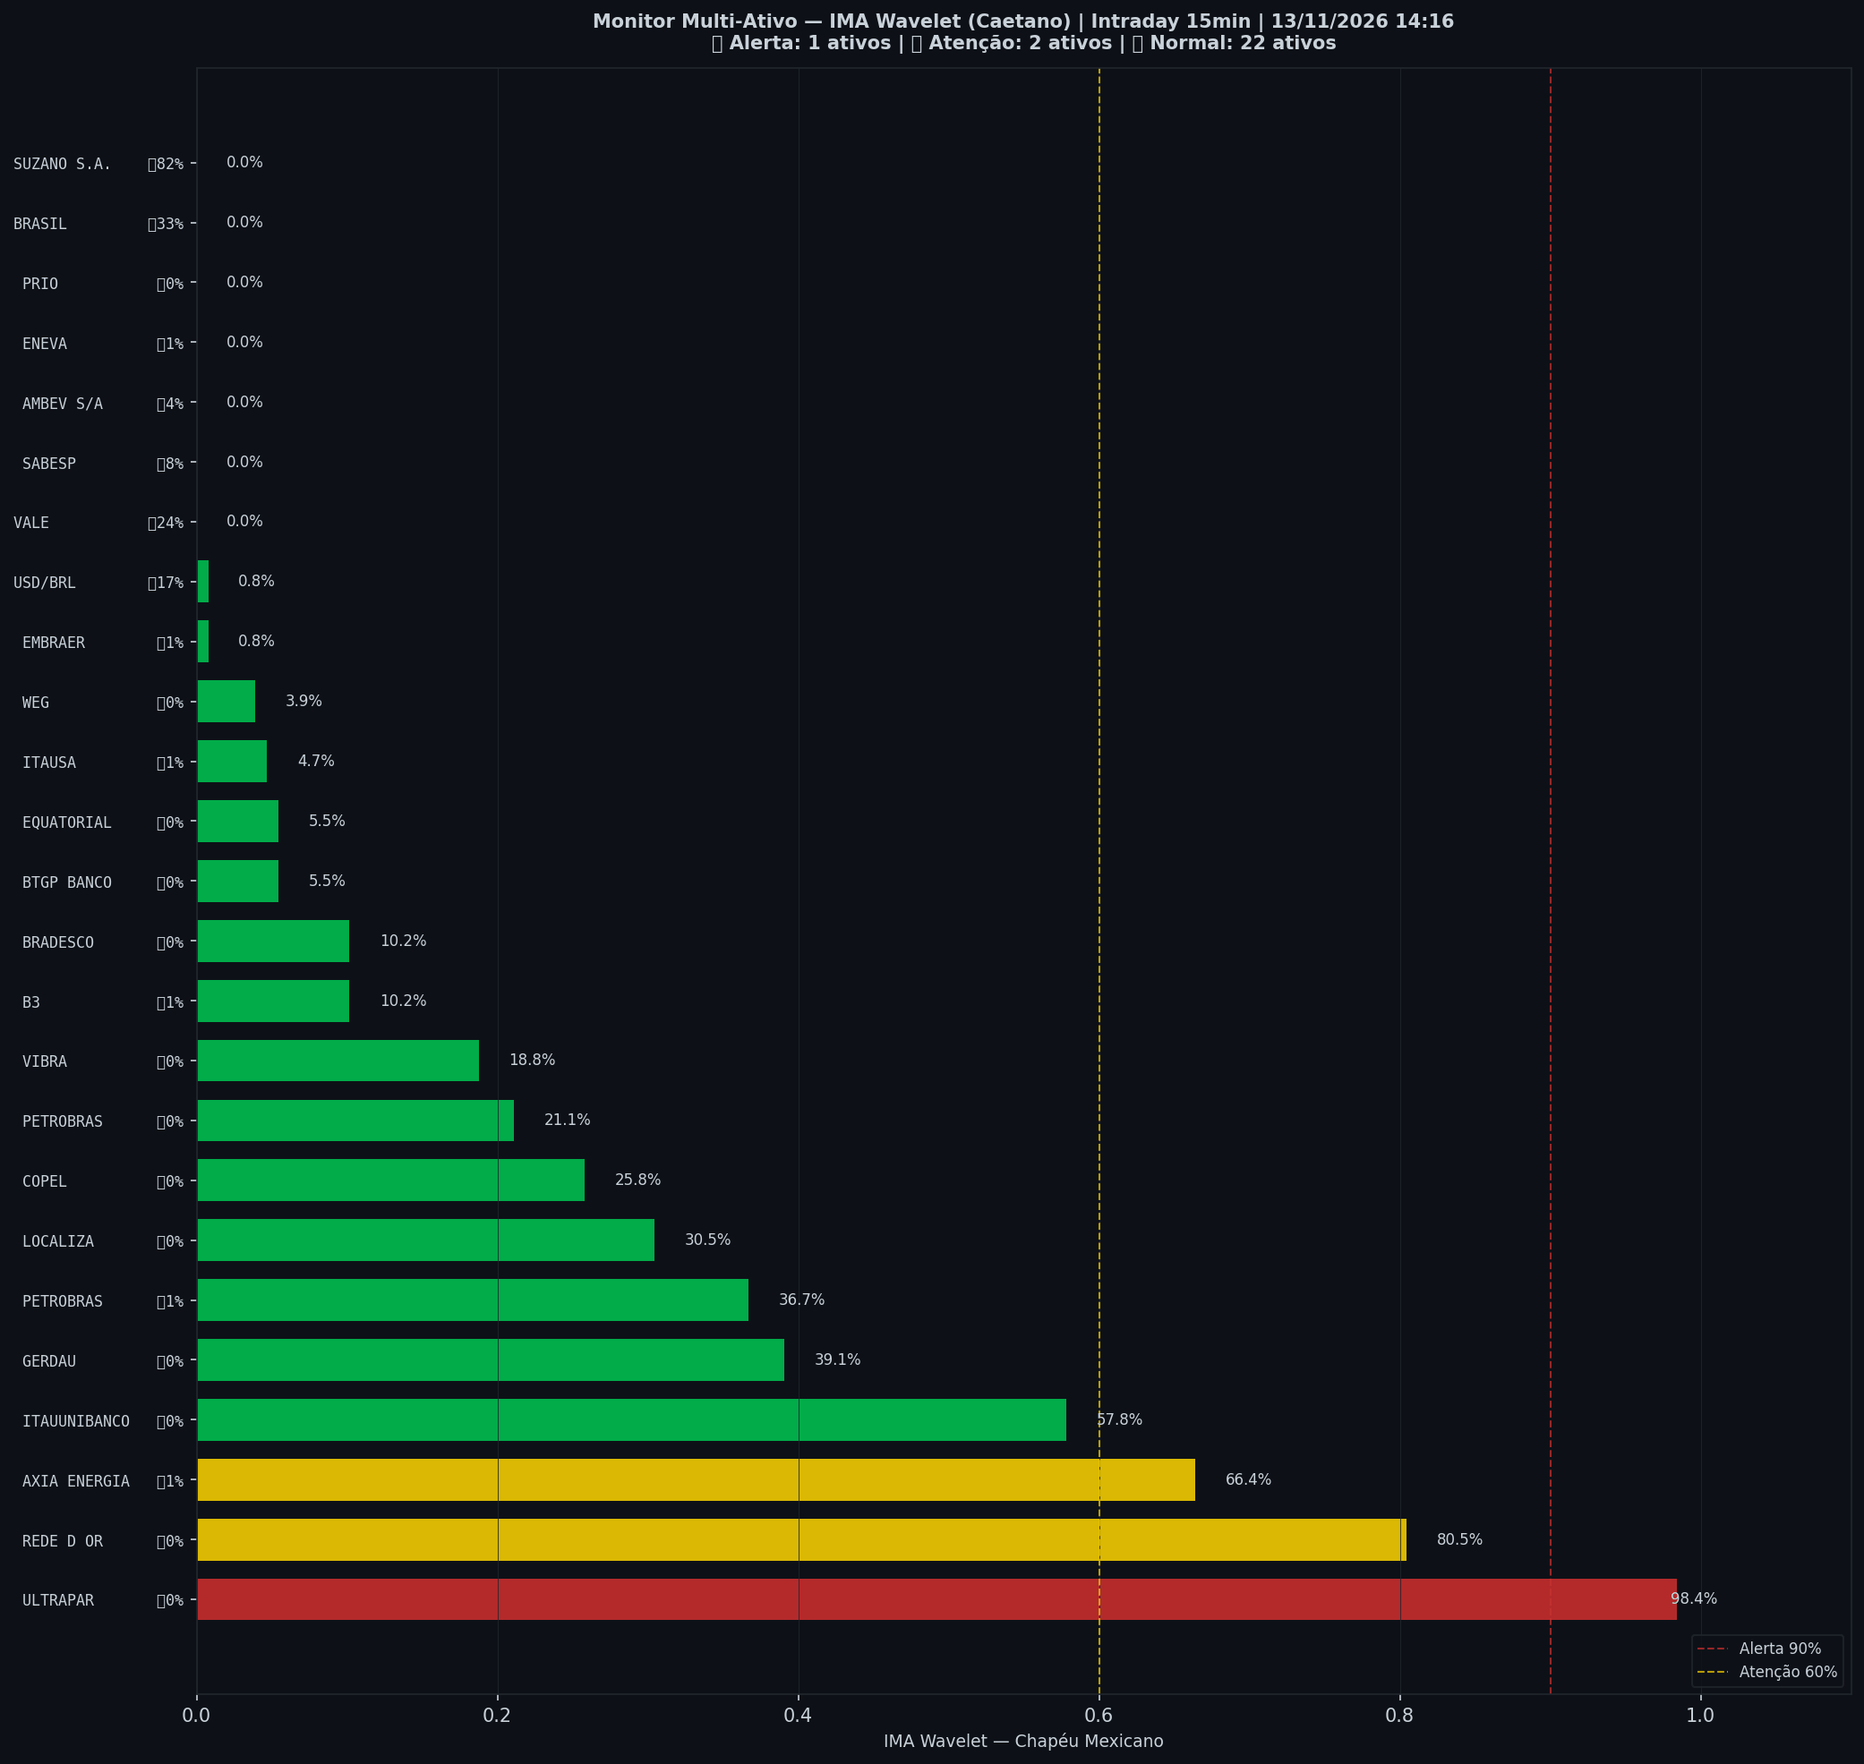
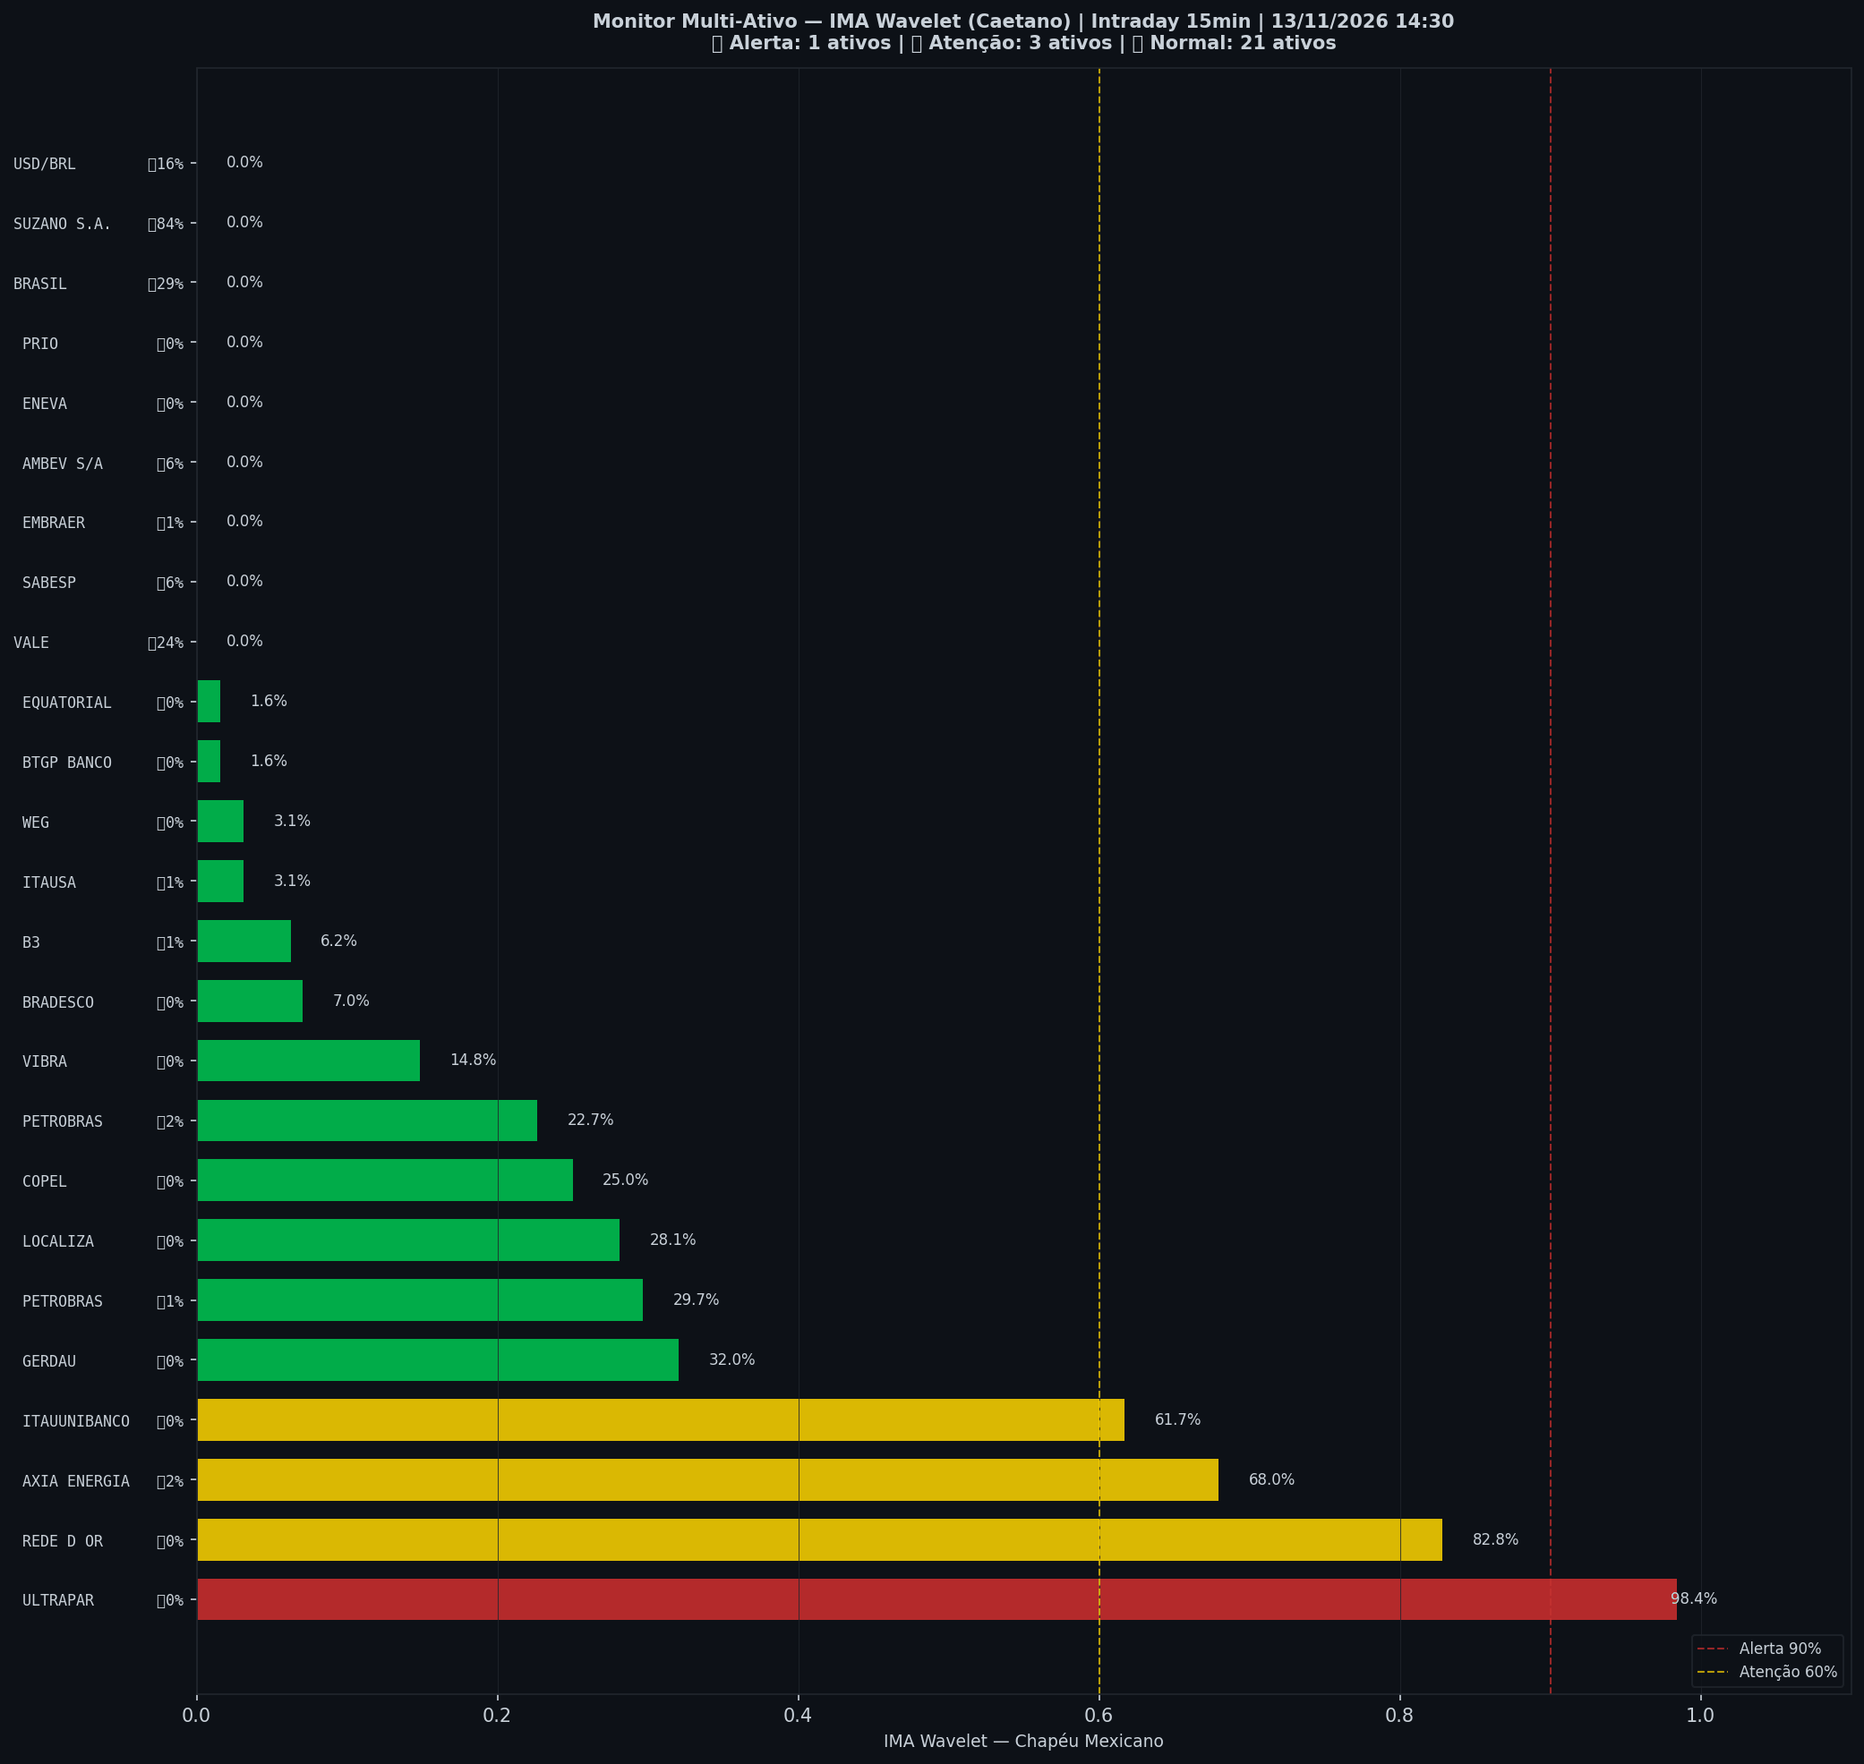
🤖 Auto: Sinal 13/11/2026 14:31

Changed region(s): [[0.0937, 0.588, 0.6868, 0.8666], [0.0937, 0.3095, 0.1873, 0.588], [0.7493, 0.8356, 0.7805, 0.8975]]

diff --git a/content/intraday/2026-11-13.md b/content/intraday/2026-11-13.md
@@ -1,11 +1,11 @@
 ---
-title: "🟢 Intraday 13/11/2026 14:00 BRT — VERDE"
+title: "🟢 Intraday 13/11/2026 14:15 BRT — VERDE"
 date: 2026-11-13
 tags: [intraday]
 ---
 
-> [!success] Onde o mercado está agora (13/11 14:00, candles de 15 min): **🟢 Calmo**
-> `Pânico ◀──────────●──────────▶ Euforia`
+> [!success] Onde o mercado está agora (13/11 14:15, candles de 15 min): **🟢 Calmo**
+> `Pânico ◀─────────●───────────▶ Euforia`
 >
 > O Ibovespa está dentro da sua faixa normal, sem excesso para cima nem para baixo.
 > No gráfico diário: 🌱 Fundo se desfazendo.
@@ -20,7 +20,7 @@ tags: [intraday]
 > | 📍 **Sinais** | hoje: nenhum sinal | [abrir](sinais-topo-fundo/) |
 > | 🧪 **Placar ao vivo** | 1 operação(ões), 0 com lucro, soma -0,8% | [abrir](operacoes/) |
 
-> [!success] IMA Intraday · 15 min (13/11 14:00): 🟢 **VERDE** — Risco 1% · ▼ -1 p.p. vs leitura anterior
+> [!success] IMA Intraday · 15 min (13/11 14:15): 🟢 **VERDE** — Risco 0% · ▼ -1 p.p. vs leitura anterior
 > `░░░░░░░░░░░░░░░░░░░░`
 > Preço na faixa normal em torno da tendência.
 
@@ -32,13 +32,13 @@ tags: [intraday]
 >
 > *Leitura educacional baseada em 26 anos de dados, não recomendação. [Como usar](../metodologia/crise#3-como-usar-na-prática).*
 
-| Indicador — IMA Intraday · 15 min (13/11 14:00) | Valor |
+| Indicador — IMA Intraday · 15 min (13/11 14:15) | Valor |
 |---|---|
-| 🔴 ζ Topo — preço esticado acima da tendência | **1%** |
-| 🔵 ζ Fundo — preço esticado abaixo da tendência | 5% |
+| 🔴 ζ Topo — preço esticado acima da tendência | **0%** |
+| 🔵 ζ Fundo — preço esticado abaixo da tendência | 7% |
 | 🫧 LPPL bolha — alta super-exponencial (risco de crash) | 0% |
 | 🫧 LPPL antibolha — queda super-exponencial (risco de repique) | 0% |
-| 📊 Ibovespa | 172.414 pts |
+| 📊 Ibovespa | 172.235 pts |
 
 ![Gráfico do sinal](../graficos/sinal_intraday.png)
 
@@ -46,6 +46,7 @@ tags: [intraday]
 
 | Data | Zona | Evento | Risco | ζ Topo | ζ Fundo | LPPL |
 |---|---|---|---|---|---|---|
+| 2026-11-13 14:15 | 🟢 VERDE |  | **0%** | 0% | 7% | 0% |
 | 2026-11-13 14:00 | 🟢 VERDE |  | **1%** | 1% | 5% | 0% |
 | 2026-11-13 13:45 | 🟢 VERDE |  | **2%** | 2% | 3% | 0% |
 | 2026-11-13 13:30 | 🟢 VERDE |  | **1%** | 1% | 1% | 0% |
@@ -75,50 +76,49 @@ tags: [intraday]
 | 2026-11-12 15:45 | 🟢 VERDE |  | **0%** | 0% | 🔵 **89%** | 0% |
 | 2026-11-12 15:30 | 🟢 VERDE |  | **0%** | 0% | 🔵 **88%** | 0% |
 | 2026-11-12 15:15 | 🟢 VERDE |  | **0%** | 0% | 🔵 **88%** | 0% |
-| 2026-11-12 15:00 | 🟢 VERDE |  | **0%** | 0% | 🔵 **88%** | 0% |
 
 <small>Destaques: 🟡 ≥ 60% · 🔴 ≥ 90% (Risco e ζ Topo) · 🔵 ≥ 60% · 🔪 ≥ 90% (ζ Fundo) · 🫧 ≥ 30% · 🫧🔴 ≥ 50% (LPPL)</small>
 
 ## Monitor Multi-Ativo
 
-**12% dos ativos em tensão** (1🔴 2🟡) · **1 com ζ Fundo alto** — quanto mais ativos disparam juntos, mais confiável o sinal.
+**16% dos ativos em tensão** (1🔴 3🟡) · **1 com ζ Fundo alto** — quanto mais ativos disparam juntos, mais confiável o sinal.
 
 > [!danger] Em destaque no multi-ativo
-> 🔴 **ULTRAPAR** ζ Topo 98% · 🔵 **SUZANO S.A.** ζ Fundo 82% · 🟡 **REDE D OR** ζ Topo 80% · 🟡 **AXIA ENERGIA** ζ Topo 66%
+> 🔴 **ULTRAPAR** ζ Topo 98% · 🔵 **SUZANO S.A.** ζ Fundo 84% · 🟡 **REDE D OR** ζ Topo 83% · 🟡 **AXIA ENERGIA** ζ Topo 68% · 🟡 **ITAUUNIBANCO** ζ Topo 62%
 
 | Zona | Ativo | Setor | ζ Topo | ζ Fundo |
 |---|---|---|---|---|
 | 🔴 | **ULTRAPAR** | Outros | 🔴 **98.4%** | 0.0% |
-| 🟢 | **SUZANO S.A.** | Papel/Celulose | 0.0% | 🔵 **82.0%** |
-| 🟡 | **REDE D OR** | Saúde | 🟡 **80.5%** | 0.0% |
-| 🟡 | **AXIA ENERGIA** | Energia | 🟡 **66.4%** | 0.8% |
-| 🟢 | **ITAUUNIBANCO** | Financeiro | 57.8% | 0.0% |
-| 🟢 | **GERDAU** | Siderurgia | 39.1% | 0.0% |
-| 🟢 | **PETROBRAS** | Petróleo | 36.7% | 0.8% |
-| 🟢 | **BRASIL** | Financeiro | 0.0% | 32.8% |
-| 🟢 | **LOCALIZA** | Aluguel | 30.5% | 0.0% |
-| 🟢 | **COPEL** | Energia | 25.8% | 0.0% |
+| 🟢 | **SUZANO S.A.** | Papel/Celulose | 0.0% | 🔵 **84.4%** |
+| 🟡 | **REDE D OR** | Saúde | 🟡 **82.8%** | 0.0% |
+| 🟡 | **AXIA ENERGIA** | Energia | 🟡 **68.0%** | 1.6% |
+| 🟡 | **ITAUUNIBANCO** | Financeiro | 🟡 **61.7%** | 0.0% |
+| 🟢 | **GERDAU** | Siderurgia | 32.0% | 0.0% |
+| 🟢 | **PETROBRAS** | Petróleo | 29.7% | 0.8% |
+| 🟢 | **BRASIL** | Financeiro | 0.0% | 28.9% |
+| 🟢 | **LOCALIZA** | Aluguel | 28.1% | 0.0% |
+| 🟢 | **COPEL** | Energia | 25.0% | 0.0% |
 | 🟢 | **VALE** | Mineração | 0.0% | 24.2% |
-| 🟢 | **PETROBRAS** | Petróleo | 21.1% | 0.0% |
-| 🟢 | **VIBRA** | Energia | 18.8% | 0.0% |
-| 🟢 | **USD/BRL** | Câmbio | 0.8% | 17.2% |
-| 🟢 | **B3** | Financeiro | 10.2% | 0.8% |
-| 🟢 | **BRADESCO** | Financeiro | 10.2% | 0.0% |
-| 🟢 | **SABESP** | Saneamento | 0.0% | 7.8% |
-| 🟢 | **BTGP BANCO** | Financeiro | 5.5% | 0.0% |
-| 🟢 | **EQUATORIAL** | Energia | 5.5% | 0.0% |
-| 🟢 | **ITAUSA** | Financeiro | 4.7% | 0.8% |
-| 🟢 | **WEG** | Industrial | 3.9% | 0.0% |
-| 🟢 | **AMBEV S/A** | Consumo | 0.0% | 3.9% |
-| 🟢 | **EMBRAER** | Outros | 0.8% | 0.8% |
-| 🟢 | **ENEVA** | Energia | 0.0% | 0.8% |
+| 🟢 | **PETROBRAS** | Petróleo | 22.7% | 1.6% |
+| 🟢 | **USD/BRL** | Câmbio | 0.0% | 15.6% |
+| 🟢 | **VIBRA** | Energia | 14.8% | 0.0% |
+| 🟢 | **BRADESCO** | Financeiro | 7.0% | 0.0% |
+| 🟢 | **SABESP** | Saneamento | 0.0% | 6.2% |
+| 🟢 | **B3** | Financeiro | 6.2% | 0.8% |
+| 🟢 | **AMBEV S/A** | Consumo | 0.0% | 6.2% |
+| 🟢 | **ITAUSA** | Financeiro | 3.1% | 0.8% |
+| 🟢 | **WEG** | Industrial | 3.1% | 0.0% |
+| 🟢 | **BTGP BANCO** | Financeiro | 1.6% | 0.0% |
+| 🟢 | **EQUATORIAL** | Energia | 1.6% | 0.0% |
+| 🟢 | **EMBRAER** | Outros | 0.0% | 0.8% |
+| 🟢 | **ENEVA** | Energia | 0.0% | 0.0% |
 | 🟢 | **PRIO** | Petróleo | 0.0% | 0.0% |
 
 <small>Destaques: 🟡 ≥ 60% · 🔴 ≥ 90% (Risco e ζ Topo) · 🔵 ≥ 60% · 🔪 ≥ 90% (ζ Fundo) · 🫧 ≥ 30% · 🫧🔴 ≥ 50% (LPPL)</small>
 
 ![Monitor multi-ativo](../graficos/multi_intraday.png)
 
-*Página atualizada em 13/11/2026 14:16 BRT (leitura da barra de 2026-11-13 14:00 BRT).*
+*Página atualizada em 13/11/2026 14:31 BRT (leitura da barra de 2026-11-13 14:15 BRT).*
 
 > [!warning] O que este indicador não faz
 > Medido em 5 anos de Ibovespa, o ζ **não antecipa** topos nem fundos: a capacidade de separar o que sobe do que cai ficou em 0,49–0,52, e 0,50 é moeda jogada ao ar. Ele descreve o estado de agora; não é aviso do que vem. As zonas verde/amarelo/vermelho continuam na página como descrição desse estado — **não as use como sinal de entrada ou saída**.

diff --git a/content/index.md b/content/index.md
@@ -6,10 +6,10 @@ tags: [home]
 
 **As ondas do mercado, explicadas.** Leitura do Ibovespa com estatística de 26 anos, baseada no trabalho de pesquisadores e traders reconhecidos e adaptada por Jarbas Daniel da Costa.
 
-*Última atualização: 13/11/2026 14:16 BRT · Intraday 15min*
+*Última atualização: 13/11/2026 14:31 BRT · Intraday 15min*
 
-> [!success] Onde o mercado está agora (13/11 14:00, candles de 15 min): **🟢 Calmo**
-> `Pânico ◀──────────●──────────▶ Euforia`
+> [!success] Onde o mercado está agora (13/11 14:15, candles de 15 min): **🟢 Calmo**
+> `Pânico ◀─────────●───────────▶ Euforia`
 >
 > O Ibovespa está dentro da sua faixa normal, sem excesso para cima nem para baixo.
 > No gráfico diário: 🌱 Fundo se desfazendo.
@@ -20,7 +20,7 @@ tags: [home]
 
 | Módulo | Agora | |
 |---|---|---|
-| 🌊 **Sinal IMA** | 🟢 VERDE · 🟢 calmo · ζ Topo 1% | [relatório](intraday/2026-11-13) |
+| 🌊 **Sinal IMA** | 🟢 VERDE · 🟢 calmo · ζ Topo 0% | [relatório](intraday/2026-11-13) |
 | 📈 **Tendência MME9** | Diário — fora<br>Semanal — fora | [abrir](operacoes/tendencia) |
 | 🎯 **Entradas do método** | ⏳ aguardando: Diário · Nadaraya, Diário · Semáforo N3 após ζ Fundo | [abrir](operacoes/entradas) |
 | 📍 **Sinais** | hoje: nenhum sinal | [abrir](sinais-topo-fundo/) |
@@ -44,26 +44,26 @@ tags: [home]
 > *Leitura educacional baseada em 26 anos de dados, não recomendação. [Como usar](metodologia/crise#3-como-usar-na-prática).*
 
 > [!info]- 🌊 Detalhes do Sinal IMA (indicadores e últimos 7 pregões)
-> > [!success] IMA Intraday · 15 min (13/11 14:00): 🟢 **VERDE** — Risco 1% · ▼ -1 p.p. vs leitura anterior
+> > [!success] IMA Intraday · 15 min (13/11 14:15): 🟢 **VERDE** — Risco 0% · ▼ -1 p.p. vs leitura anterior
 > > `░░░░░░░░░░░░░░░░░░░░`
 > > Preço na faixa normal em torno da tendência.
 >
 >
-> | Indicador — IMA Intraday · 15 min (13/11 14:00) | Valor |
+> | Indicador — IMA Intraday · 15 min (13/11 14:15) | Valor |
 > |---|---|
-> | 🔴 ζ Topo — preço esticado acima da tendência | **1%** |
-> | 🔵 ζ Fundo — preço esticado abaixo da tendência | 5% |
+> | 🔴 ζ Topo — preço esticado acima da tendência | **0%** |
+> | 🔵 ζ Fundo — preço esticado abaixo da tendência | 7% |
 > | 🫧 LPPL bolha — alta super-exponencial (risco de crash) | 0% |
 > | 🫧 LPPL antibolha — queda super-exponencial (risco de repique) | 0% |
-> | 📊 Ibovespa | 172.414 pts |
+> | 📊 Ibovespa | 172.235 pts |
 >
-> **Multi-ativo:** 12% em tensão (1🔴 2🟡 de 25 ativos)
+> **Multi-ativo:** 16% em tensão (1🔴 3🟡 de 25 ativos)
 >
 > **Últimos 7 pregões**
 >
 > | Data | Zona | Risco | ζ Topo | ζ Fundo | LPPL |
 > |---|---|---|---|---|---|
-> | [13/11/2026](intraday/2026-11-13) | 🟢 VERDE | **1%** | 1% | 5% | 0% |
+> | [13/11/2026](intraday/2026-11-13) | 🟢 VERDE | **0%** | 0% | 7% | 0% |
 > | [12/11/2026](intraday/2026-11-12) | 🟢 VERDE | **0%** | 0% | 🔵 **80%** | 0% |
 >
 > <small>Destaques: 🟡 ≥ 60% · 🔴 ≥ 90% (Risco e ζ Topo) · 🔵 ≥ 60% · 🔪 ≥ 90% (ζ Fundo) · 🫧 ≥ 30% · 🫧🔴 ≥ 50% (LPPL)</small>

diff --git a/content/operacoes/entradas.md b/content/operacoes/entradas.md
@@ -31,7 +31,7 @@ description: "Compra depois de um sinal de fundo: Nadaraya no diário, semáforo
 > | Diário · Semáforo N3 após ζ Fundo | 07/07/26 a 172.021 | 10/08/26 a 172.021 | **+0,0%** | stop no preço de entrada |
 > | H4 · Semáforo N2 | 12/06/26 14h a 171.134 | 15/06/26 14h a 171.134 | **+0,0%** | stop no preço de entrada |
 >
-> <small>Atualizado 12/11 19:01 · checado no pregão às 14:15. Nota: ✅ passou no teste fora da amostra (walk-forward 2008–2026) · 🧪 em teste (H4, com aviso no Telegram) ou em observação (ζ, sem aviso) · 🧪 na tabela = operação do teste ao vivo.</small>
+> <small>Atualizado 12/11 19:01 · checado no pregão às 14:30. Nota: ✅ passou no teste fora da amostra (walk-forward 2008–2026) · 🧪 em teste (H4, com aviso no Telegram) ou em observação (ζ, sem aviso) · 🧪 na tabela = operação do teste ao vivo.</small>
 >
 > *Regras: depois de um sinal de fundo, o Diário entra quando o Nadaraya vira para cima; o Semanal e o H4 entram quando um fundo do semáforo fica fixo. Stop e saída de cada regra na [metodologia](metodologia/regras-de-operacao#entradas-do-método). Nenhuma regra de venda passou no teste. Os números do histórico têm viés de escolha (overfitting); o placar ao vivo é o que vale. Leitura educacional do método, não recomendação.*
 

diff --git a/content/historico.md b/content/historico.md
@@ -5,7 +5,7 @@ tags: [historico]
 
 # 📜 Histórico de leituras (v5)
 
-**2.363 leituras** desde 2026-07-03. Na página ficam os últimos 3 dias leitura por leitura e o resumo de cada dia anterior; o registro inteiro está no arquivo para baixar.
+**2.364 leituras** desde 2026-07-03. Na página ficam os últimos 3 dias leitura por leitura e o resumo de cada dia anterior; o registro inteiro está no arquivo para baixar.
 
 [**Baixar o histórico completo**](historico-completo.csv) (104 KB · abre no Excel e no LibreOffice)
 
@@ -16,6 +16,7 @@ tags: [historico]
 
 | Data | Modo | Zona | Risco | IMA | LPPL |
 |---|---|---|---|---|---|
+| 2026-11-13 14:15 | intraday | 🟢 VERDE | 0% | 0% | 0% |
 | 2026-11-13 14:00 | intraday | 🟢 VERDE | 1% | 1% | 0% |
 | 2026-11-13 13:45 | intraday | 🟢 VERDE | 2% | 2% | 0% |
 | 2026-11-13 13:30 | intraday | 🟢 VERDE | 1% | 1% | 0% |

diff --git a/content/operacoes/ranking.md b/content/operacoes/ranking.md
@@ -5,7 +5,7 @@ tags: [operacoes]
 description: "As regras de compra do site ordenadas pelo resultado, com treino, teste e placar ao vivo"
 ---
 
-*Atualizado 13/11/2026 14:16 · histórico simulado com as regras congeladas em 23/10/2026 + placar ao vivo.*
+*Atualizado 13/11/2026 14:31 · histórico simulado com as regras congeladas em 23/10/2026 + placar ao vivo.*
 
 As regras de compra do site, **da que mais rendeu para a que menos rendeu**. O resultado é por operação, no índice à vista, sem custos e sem juros compostos (a soma é só a soma das operações). **Treino** = entradas de 2001 a 2013 e **teste** = 2014 em diante: uma regra só é confiável se ganhou nos dois. O único resultado sem nenhum ajuste ao histórico é o **placar ao vivo**.
 

diff --git a/content/linha-do-tempo/index.md b/content/linha-do-tempo/index.md
@@ -5,7 +5,7 @@ description: "Todo sinal, ordem, stop e aviso do Pêndulo de Mercado, do mais re
 tags: [eventos]
 ---
 
-*Atualizada 13/11/2026 14:16 BRT · a cada 15 min no pregão e às 19h.*
+*Atualizada 13/11/2026 14:31 BRT · a cada 15 min no pregão e às 19h.*
 
 Tudo o que o sistema fez ou detectou, **do mais recente para o mais antigo**: sinais de topo e fundo, ordens de compra e de venda armadas, compras, vendas, stops, avisos de 🚨 preço perto do nível e mudanças do Sinal IMA. Os **últimos 7 dias** ficam abertos; o resto, por **ano → mês → dia**.
 
